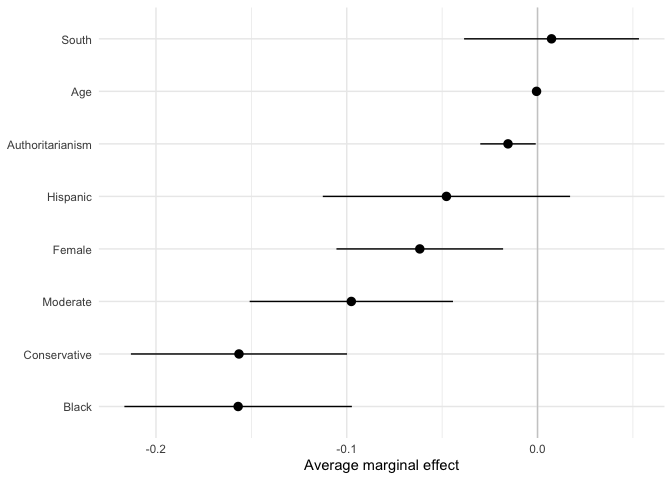
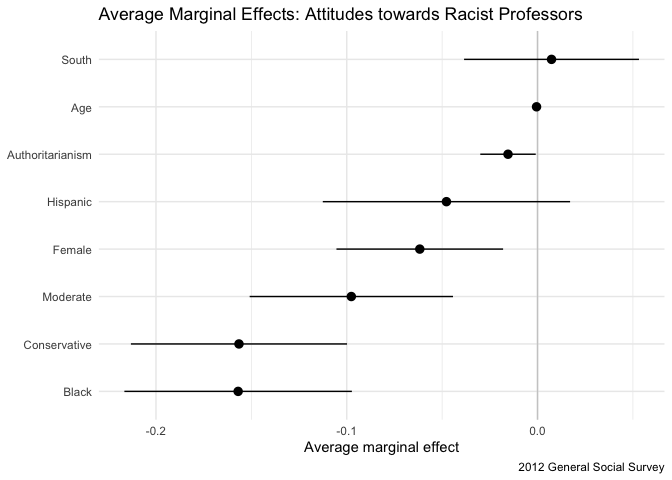
Fixed Labelling in racist-professors

diff --git a/racist-professors.md b/racist-professors.md
@@ -64,7 +64,9 @@ ggplot(data = gss_logit_marg_tbl,
   geom_pointrange() +
   coord_flip() +
   labs(x = NULL,
-       y = "Average marginal effect")
+       y = "Average marginal effect",
+       title = "Average Marginal Effects: Attitudes towards Racist Professors",
+       caption = "2012 General Social Survey")
 ```
 
 ![](racist-professors_files/figure-gfm/AME-1.png)<!-- -->
@@ -120,7 +122,8 @@ ggplot(age_data, aes(age, .fitted)) +
   geom_line() +
   labs(title = "Relationship between age and attitudes towards racist college professors",
        y = "Predicted Probability of allowing racist prof. to teach",
-       x = "Age") +
+       x = "Age",
+       caption = "2012 General Social Survey") +
   scale_y_continuous(limits = c(0, 1))
 ```
 
@@ -186,7 +189,8 @@ ggplot(age_black_data, aes(age, .fitted, color = black)) +
        subtitle = "Interactive",
        y = "Predicted Probability of allowing racist prof. to teach",
        x = "Age",
-       color = "If race is black:") +
+       color = "If race is black:",
+       caption = "2012 General Social Survey") +
   scale_y_continuous(limits = c(0, 1))
 ```
 
@@ -255,7 +259,8 @@ ggplot(age_hispanic_data, aes(age, .fitted, color = hispanic_2)) +
        subtitle = "Interactive",
        y = "Predicted Probability of allowing racist prof. to teach",
        x = "Age",
-       color = "If Hispanic:") +
+       color = "If Hispanic:",
+       caption = "2012 General Social Survey") +
   scale_y_continuous(limits = c(0, 1))
 ```
 
@@ -328,8 +333,11 @@ ggplot(age_soc_data, aes(age, .fitted, color = social_cons3)) +
        y = "Predicted Probability of allowing racist prof. to teach",
        subtitle = "Interactive",
        x = "Age",
-       color = "Social Conservatism Identification:") +
-  scale_y_continuous(limits = c(0, 1))
+       color = "Social Conservatism Identification:",
+       caption = "2012 General Social Survey") +
+  scale_y_continuous(limits = c(0, 1)) + 
+  #moving the legend to the bottom
+  theme(legend.position = "bottom")
 ```
 
 ![](racist-professors_files/figure-gfm/age%20and%20social%20conservatism-1.png)<!-- -->
@@ -384,8 +392,12 @@ ggplot(auth_geo_data, aes(authoritarianism, .fitted, color = south)) +
   labs(title = "Impact of authoritarianism and location in attitudes towards racist college professors",
        subtitle = "Independantly",
        y = "Predicted Probability of allowing racist prof. to teach",
-       x = "Authoritarianism Scale") +
-  scale_y_continuous(limits = c(0, 1))
+       x = "Authoritarianism Scale",
+       caption = "2012 General Social Survey",
+       color = "South?") +
+  scale_y_continuous(limits = c(0, 1)) +
+  #moving the legend to the bottom
+  theme(legend.position = "bottom")
 ```
 
 ![](racist-professors_files/figure-gfm/authoritarianism%20and%20geographic%20location%20-%20independant-1.png)<!-- -->
@@ -414,8 +426,8 @@ belong from the south. The p-value for south is 0.309 which is greater
 than 0.05, making it statistically significant.
 
 However, this model has an error of 44.8%. Although lower than before,
-we should construct other models
-too.
+there is room for
+improvement.
 
 ## 7\. Using authoritarianism and geographic location as interactive variables to make prediction
 
@@ -456,8 +468,12 @@ ggplot(auth_geo_data_interactive, aes(authoritarianism, .fitted, color = south))
   labs(title = "Impact of authoritarianism and location in attitudes towards racist college professors",
        subtitle = "Interactive",
        y = "Predicted Probability of allowing racist prof. to teach",
-       x = "Authoritarianism Scale") +
-  scale_y_continuous(limits = c(0, 1))
+       x = "Authoritarianism Scale",
+       caption = "2012 General Social Survey",
+       color = "South?") +
+  scale_y_continuous(limits = c(0, 1)) +
+  #moving the legend to the bottom
+  theme(legend.position = "bottom")
 ```
 
 ![](racist-professors_files/figure-gfm/authoritarianism%20and%20geographic%20location%20-%20interactive-1.png)<!-- -->
